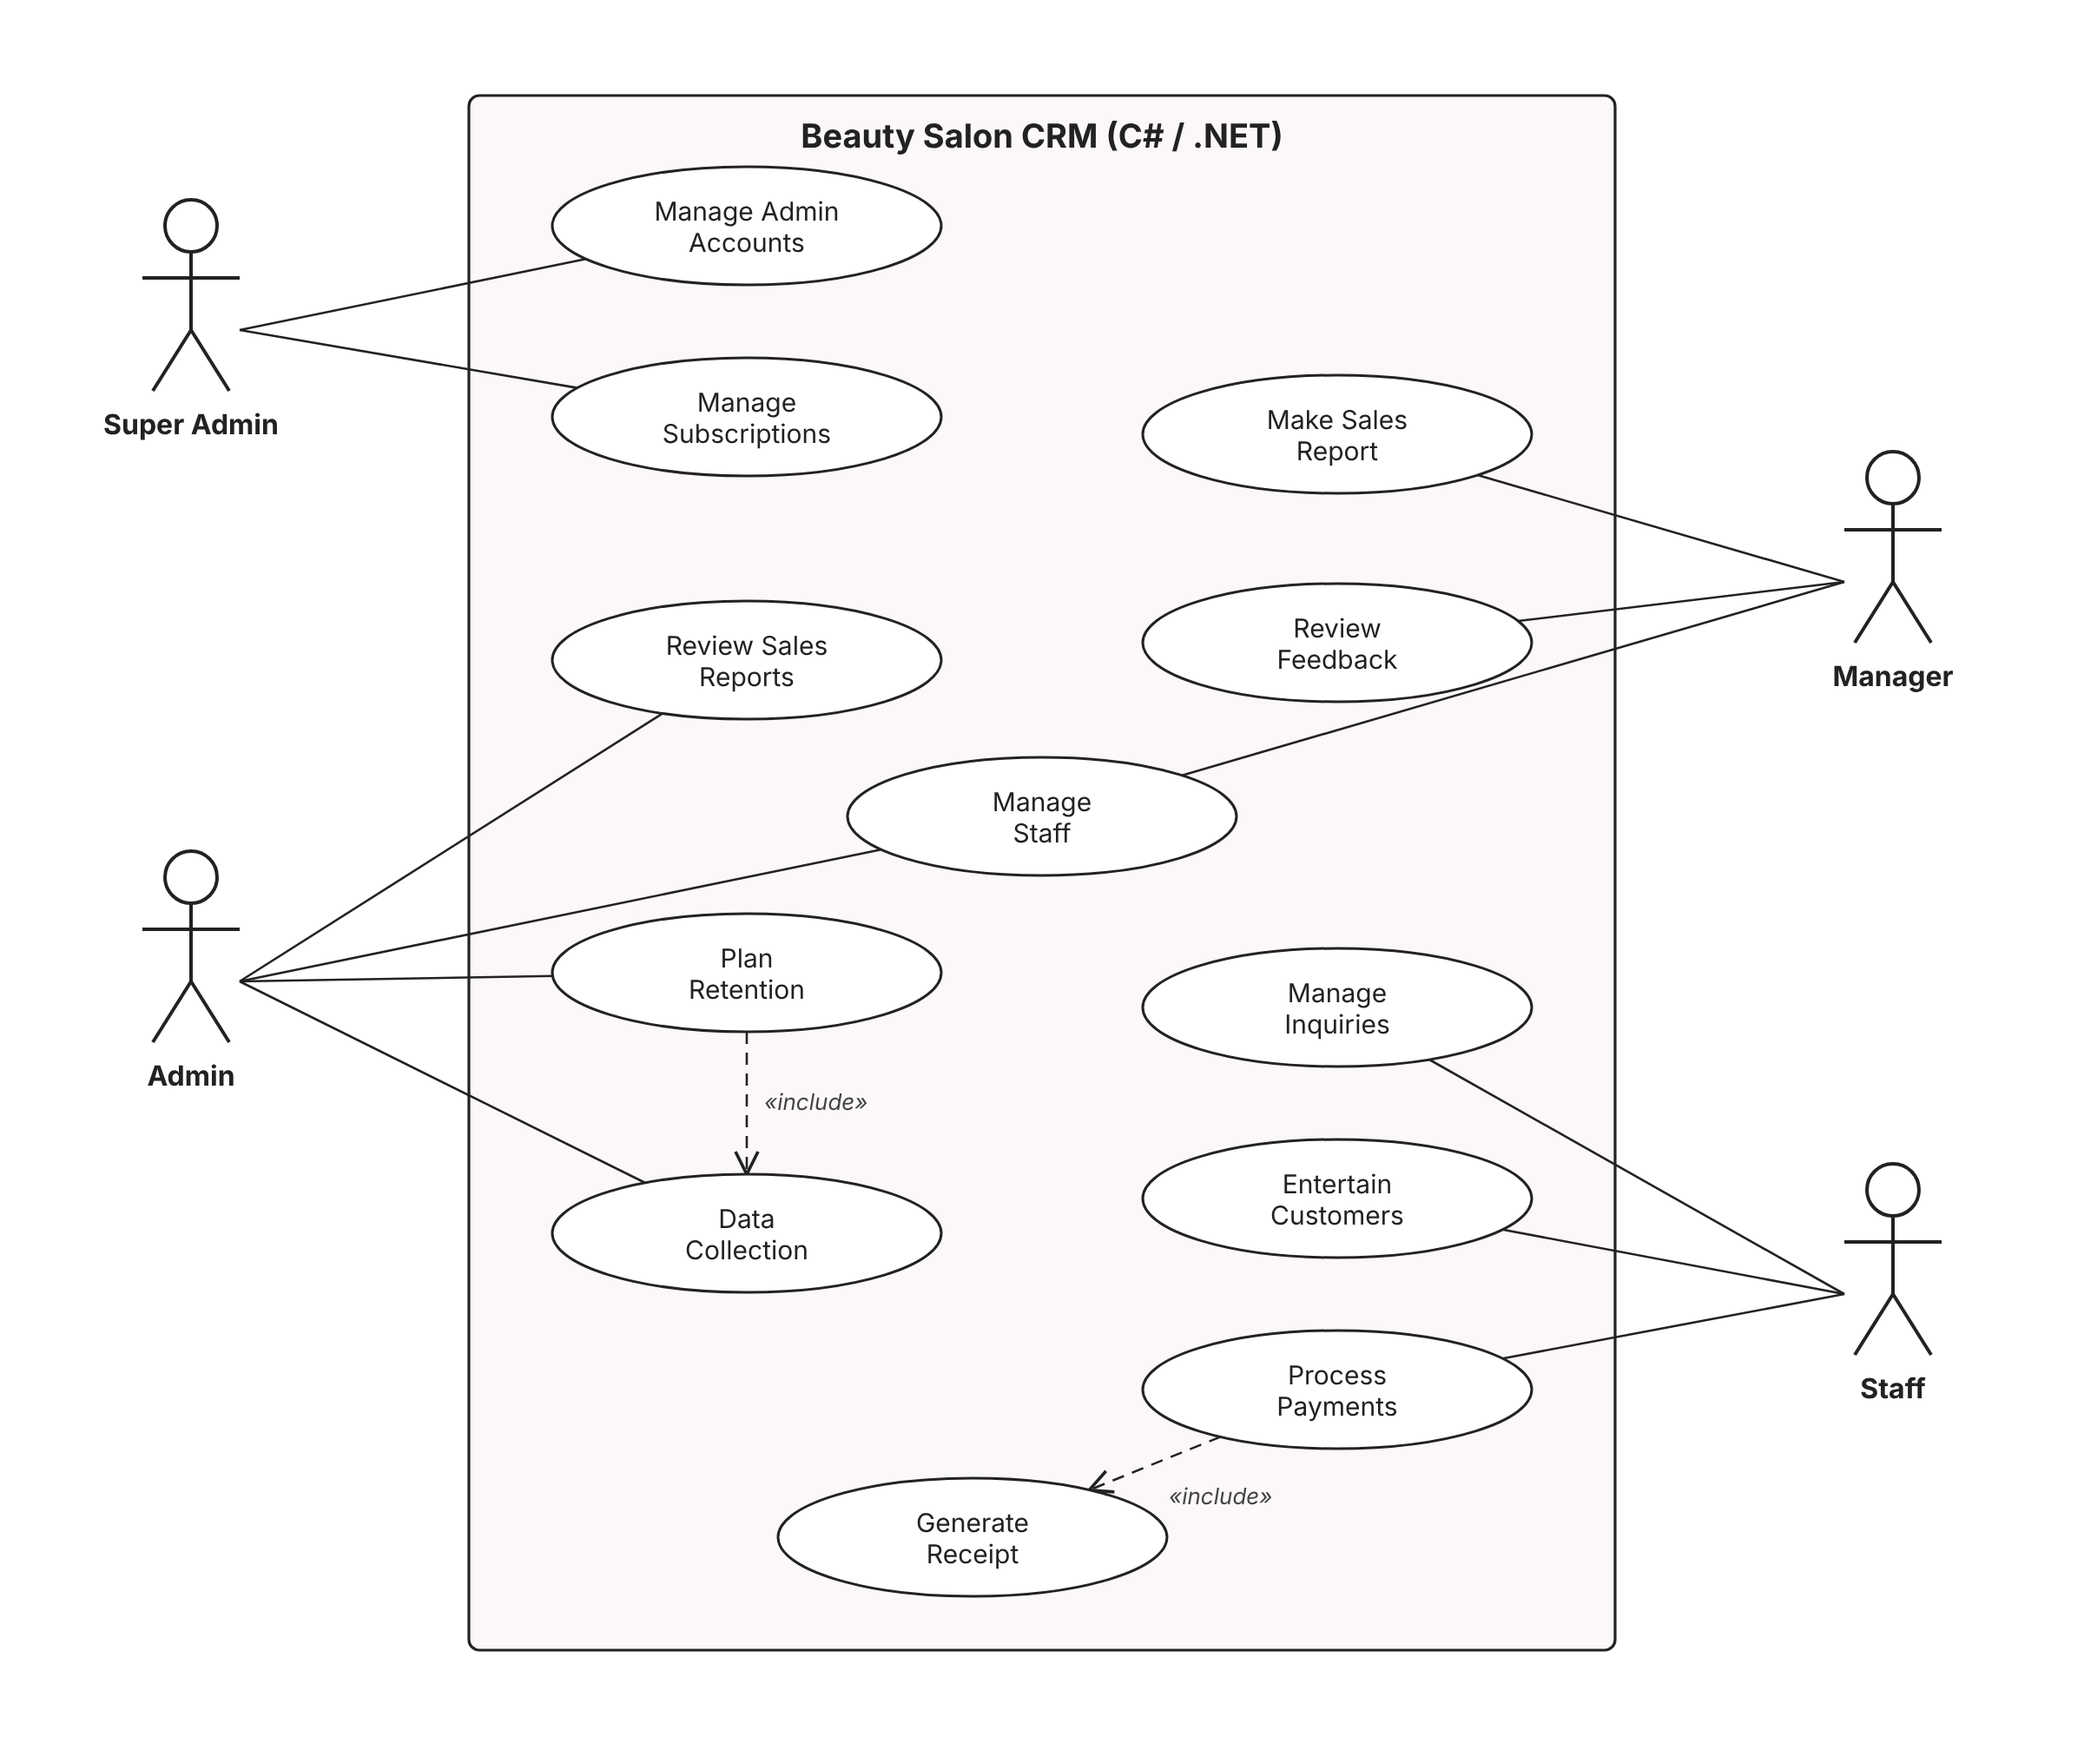
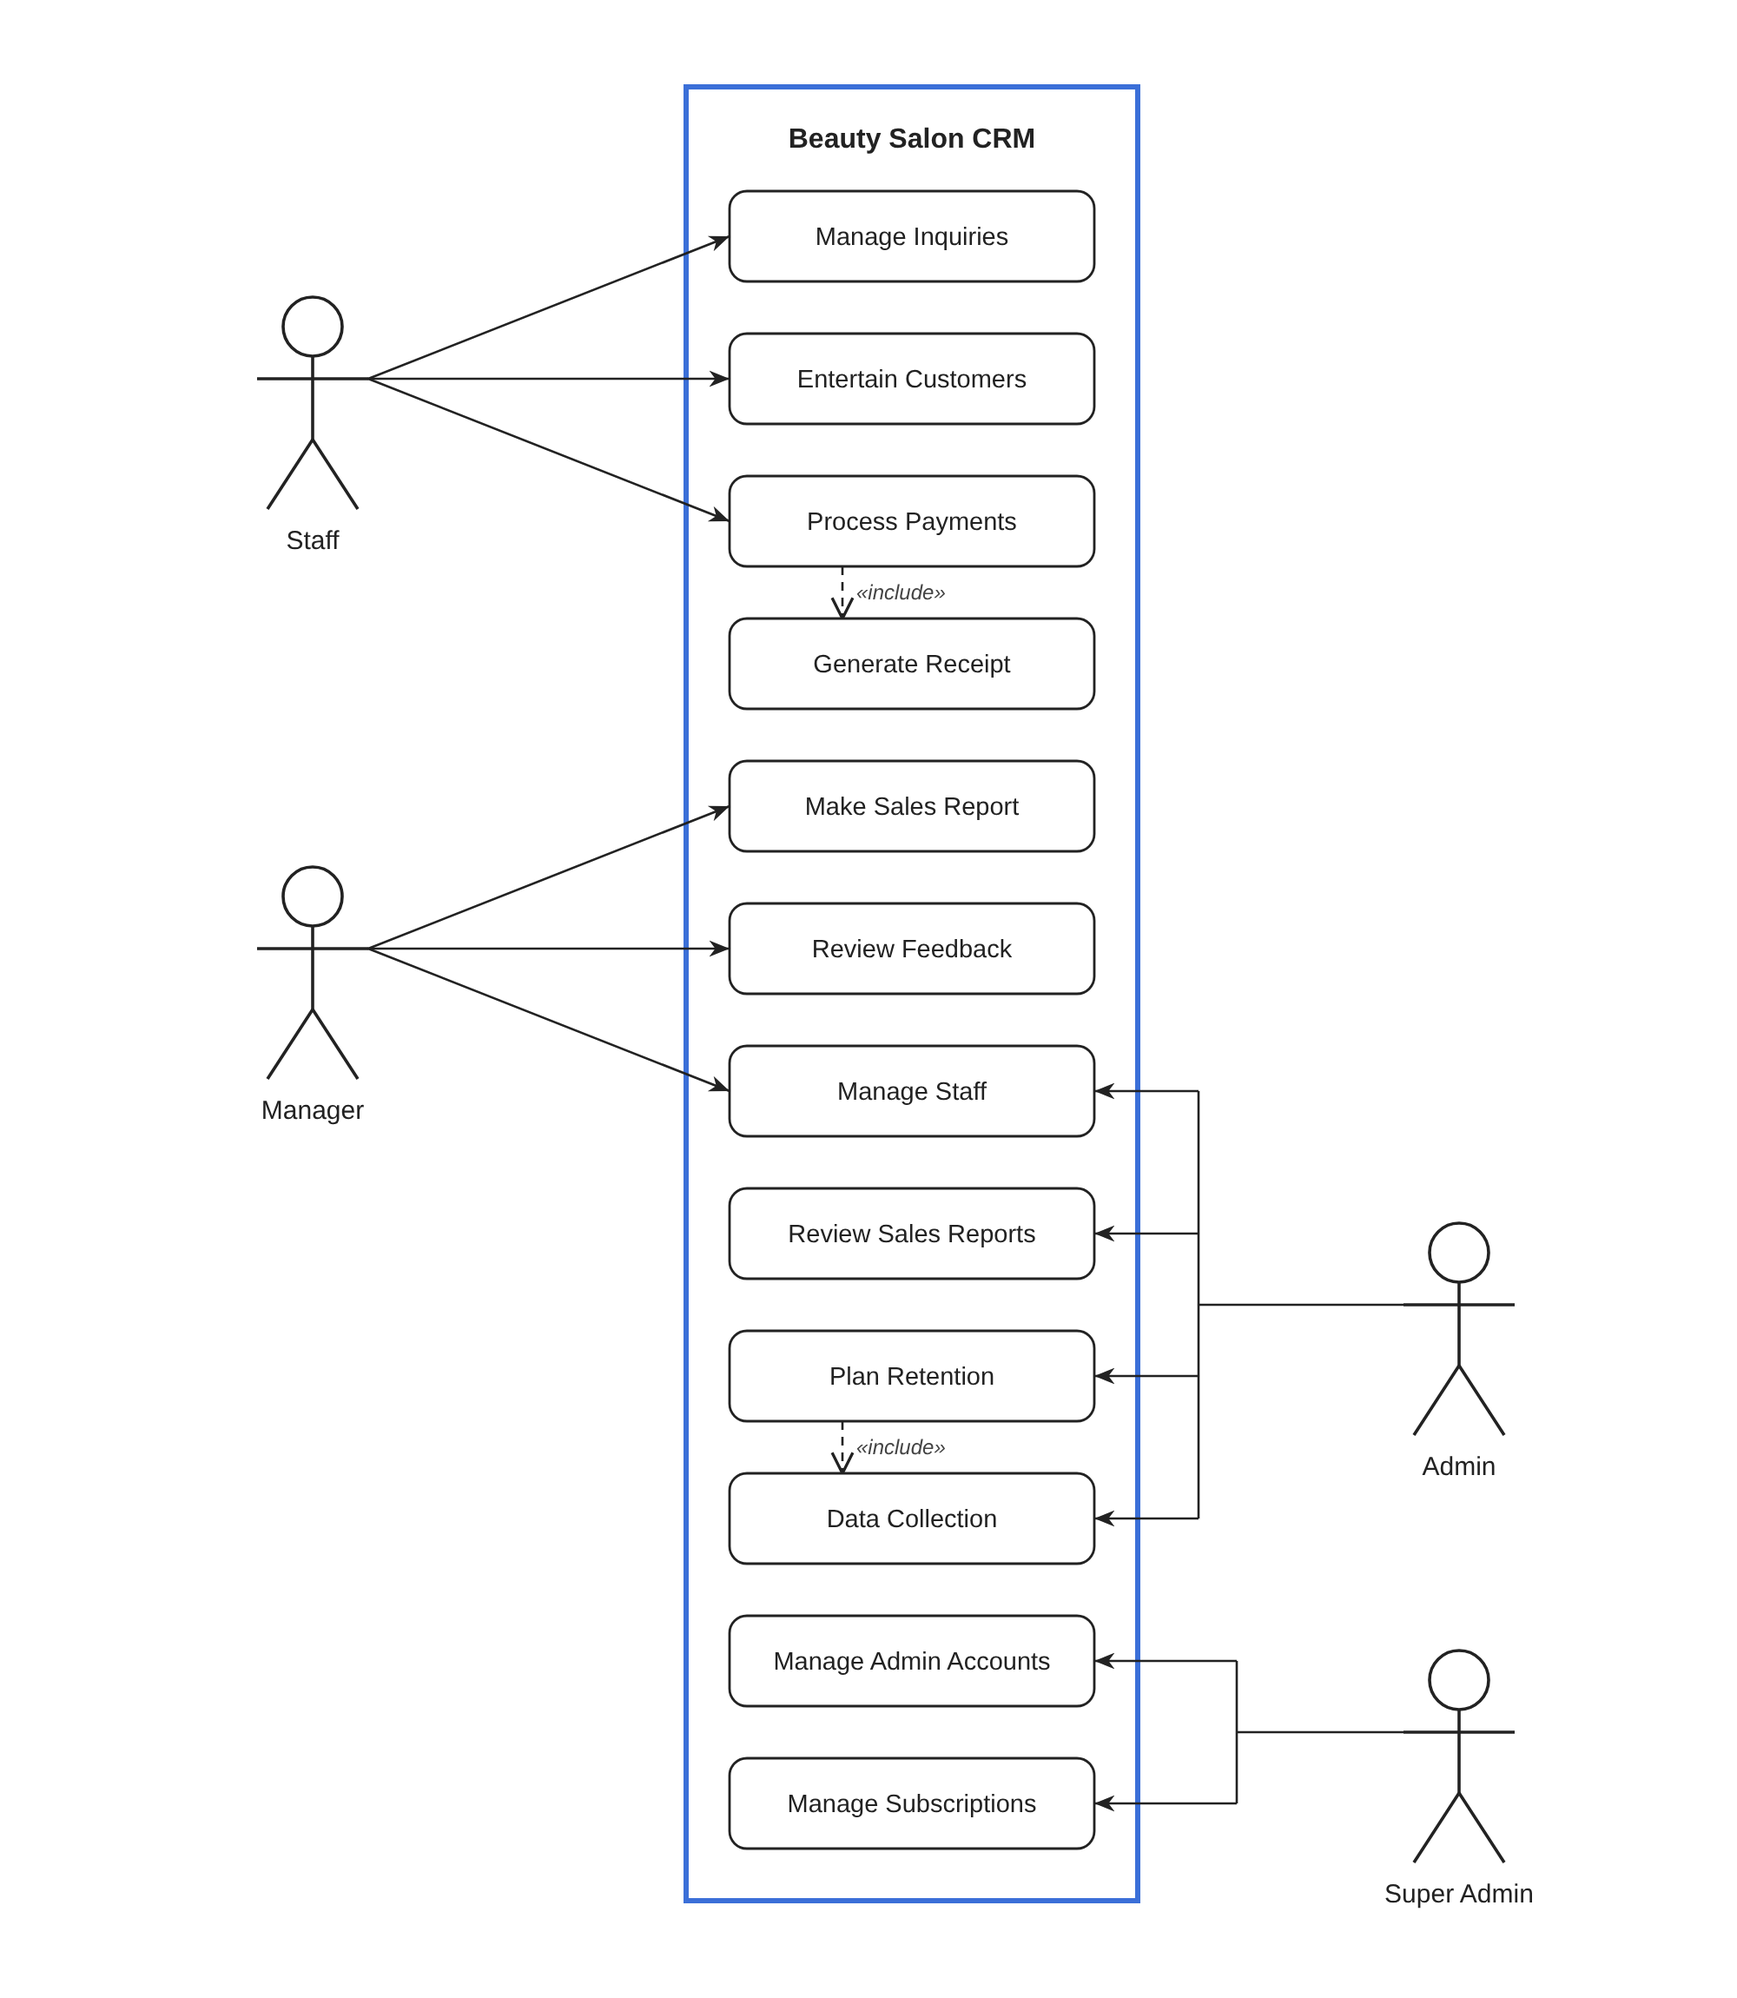
Redraw use case diagram in stacked-box layout
Keep the oval version as use-case-diagram-ellipse.

Claude-Session: https://claude.ai/code/session_01QgvE9oWsttuXytVvCCjLqk

diff --git a/docs/beauty-salon-crm/README.md b/docs/beauty-salon-crm/README.md
@@ -4,7 +4,8 @@
 
 Files in this folder:
 
-- `use-case-diagram.svg` / `use-case-diagram.png`: the diagram (vector and image versions).
+- `use-case-diagram.svg` / `use-case-diagram.png`: the diagram, stacked-box layout (vector and image versions).
+- `use-case-diagram-ellipse.svg` / `use-case-diagram-ellipse.png`: the same diagram with classic oval use cases.
 - `use-case-diagram.puml`: PlantUML source, so the diagram can be edited and regenerated.
 
 ---
